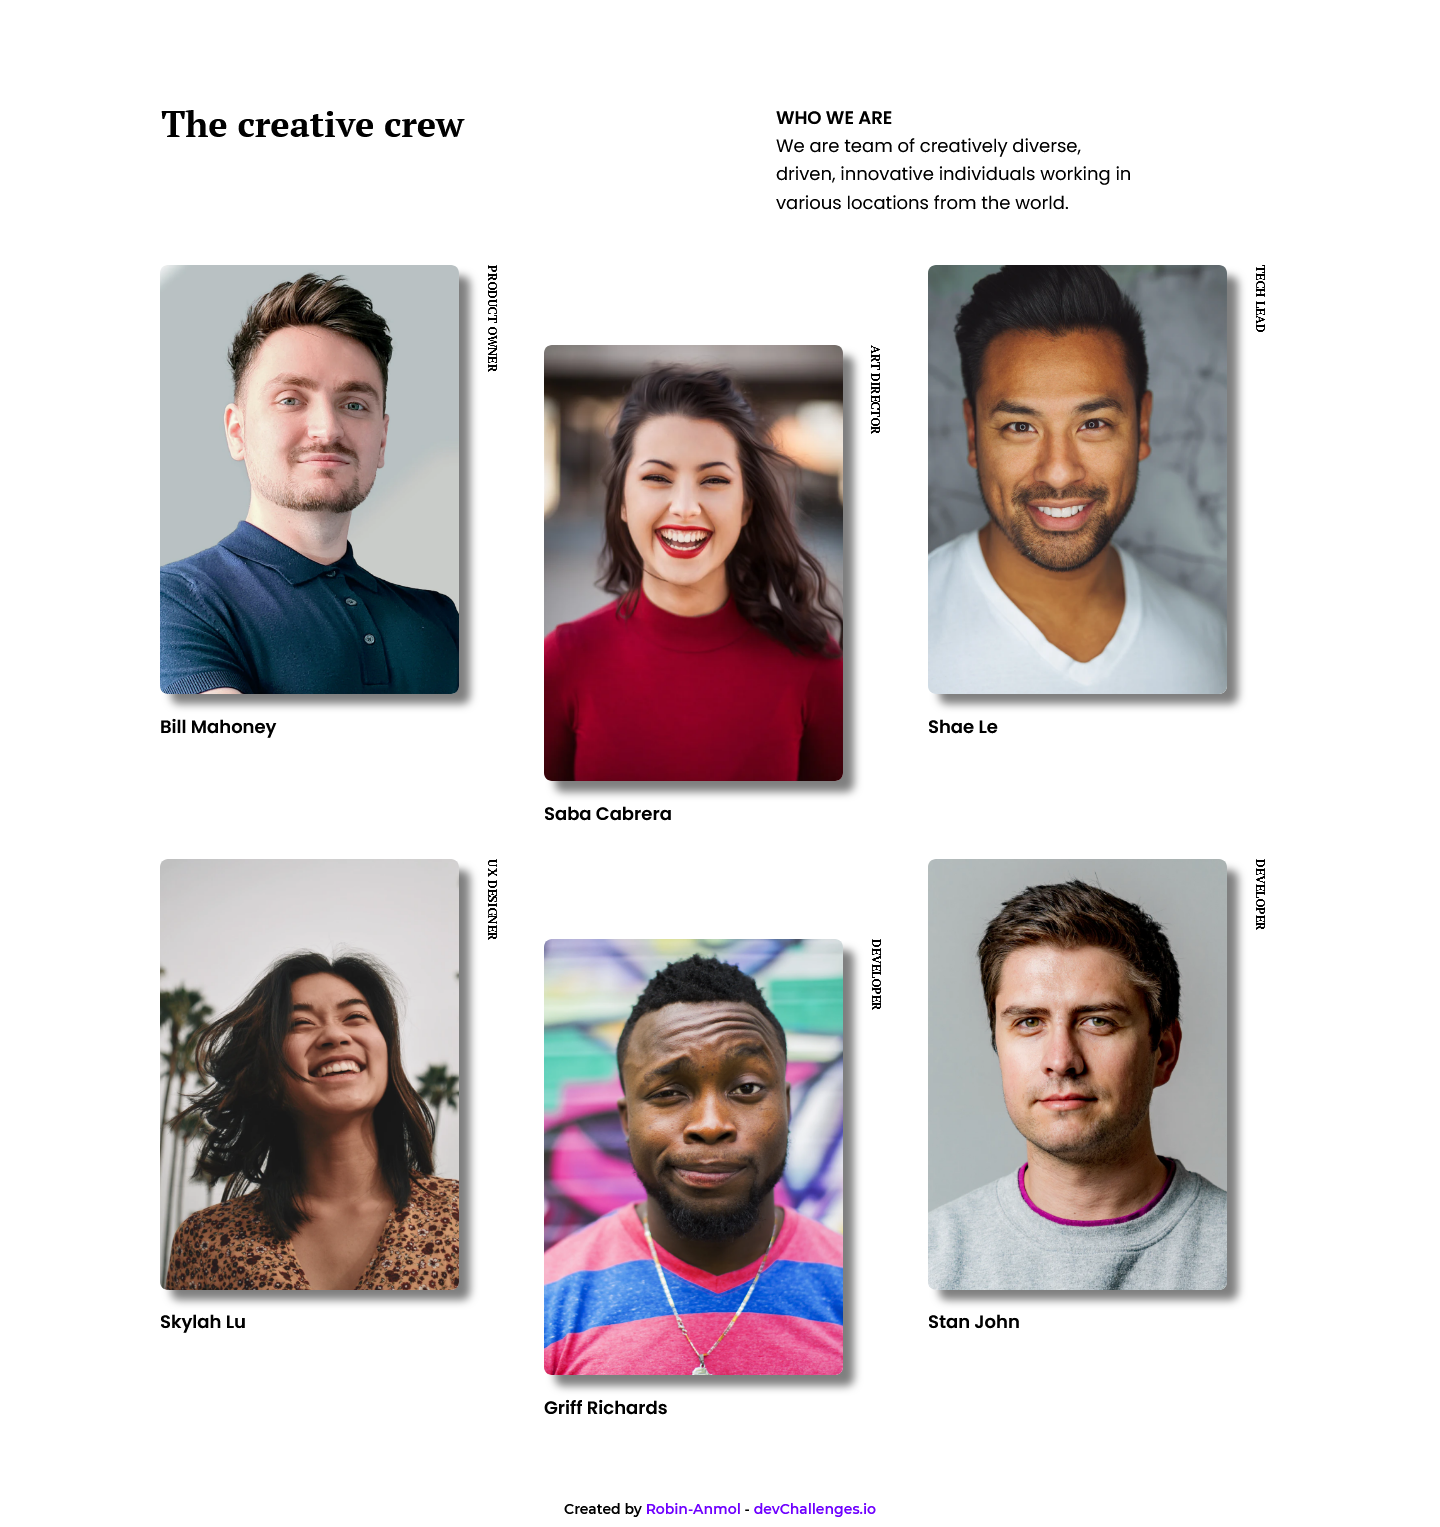
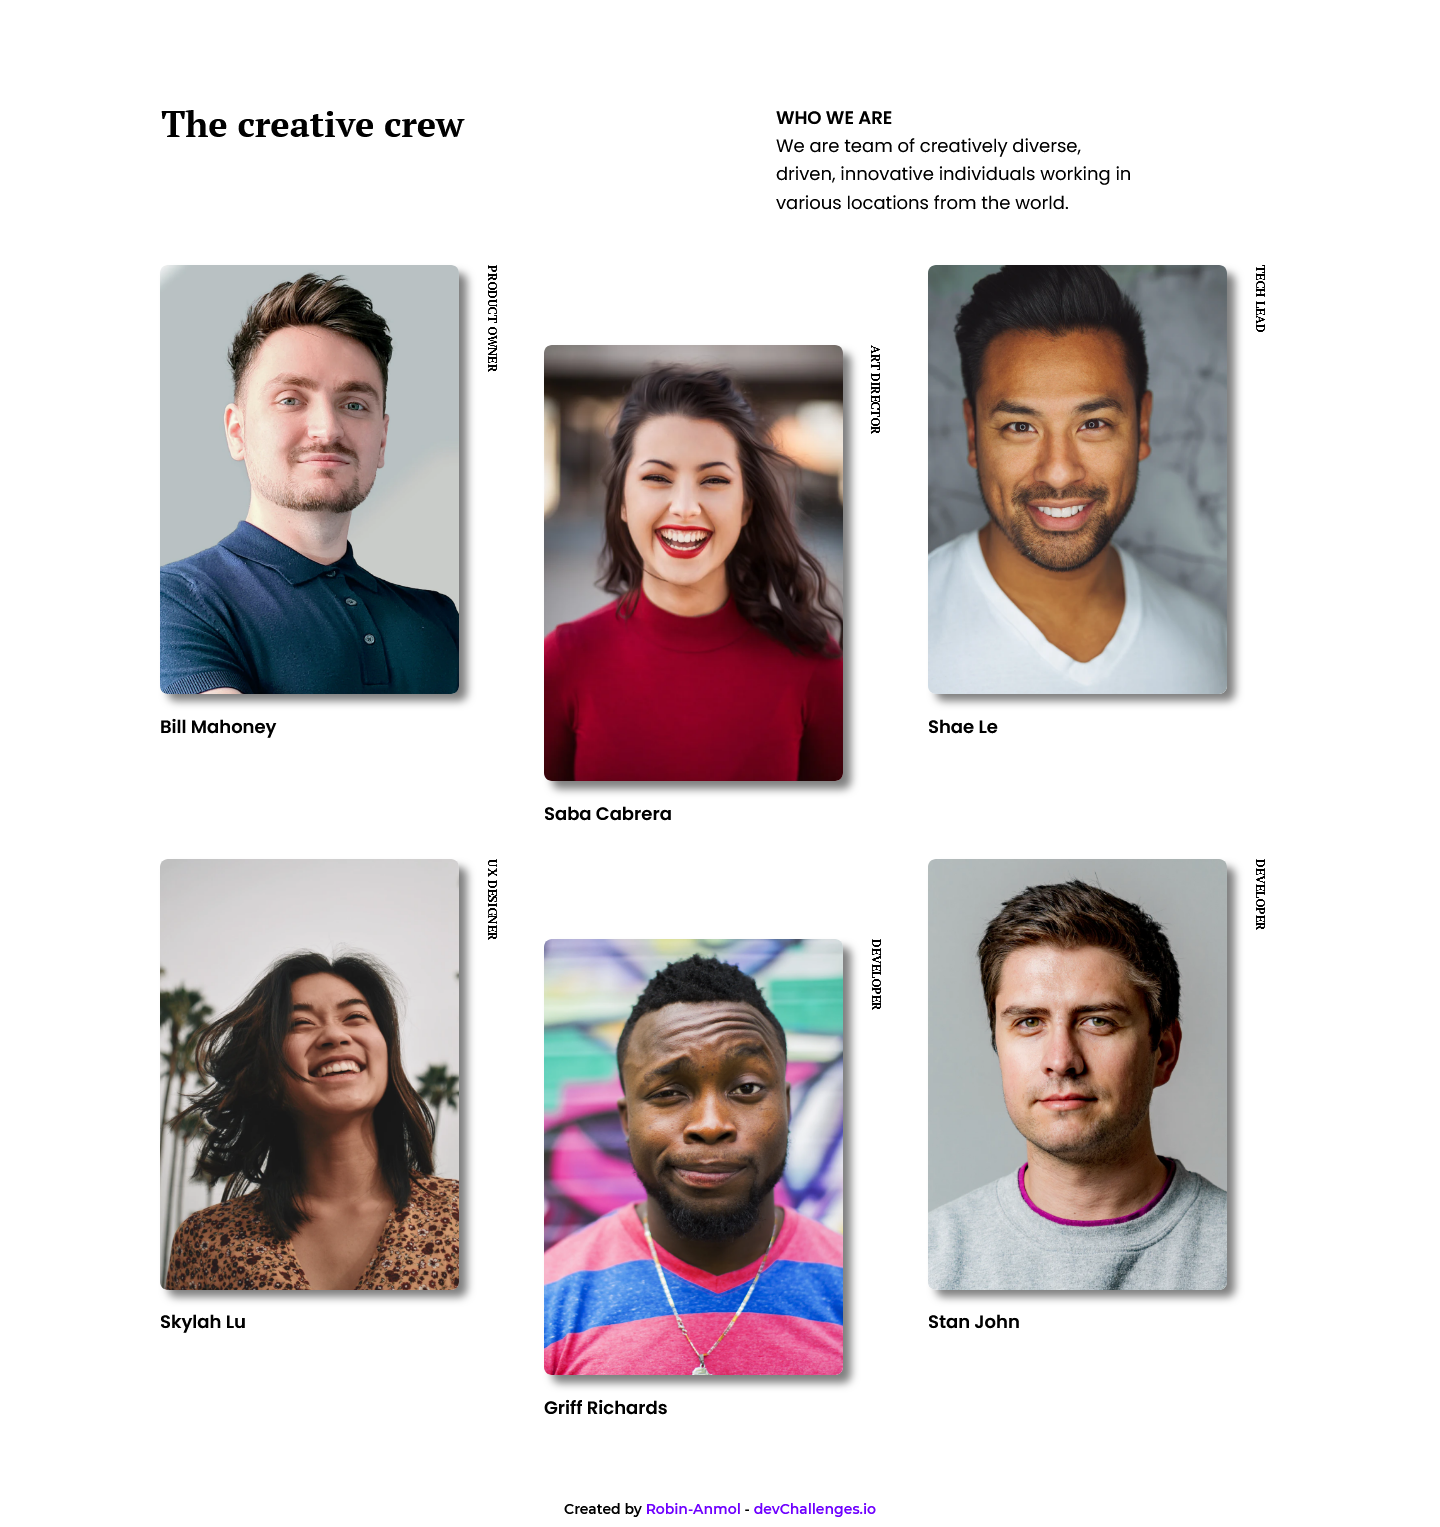
image changes

diff --git a/style.css b/style.css
@@ -105,7 +105,7 @@ html {
 .img {
   width: 85%;
   border-radius: 0.5em;
-  box-shadow: 10.5px 10.5px 8px rgba(0, 0, 0, 0.5);
+  box-shadow: 7.5px 7.5px 8px rgba(0, 0, 0, 0.5);
 }
 .img:hover {
   transform: scale(1.075);
